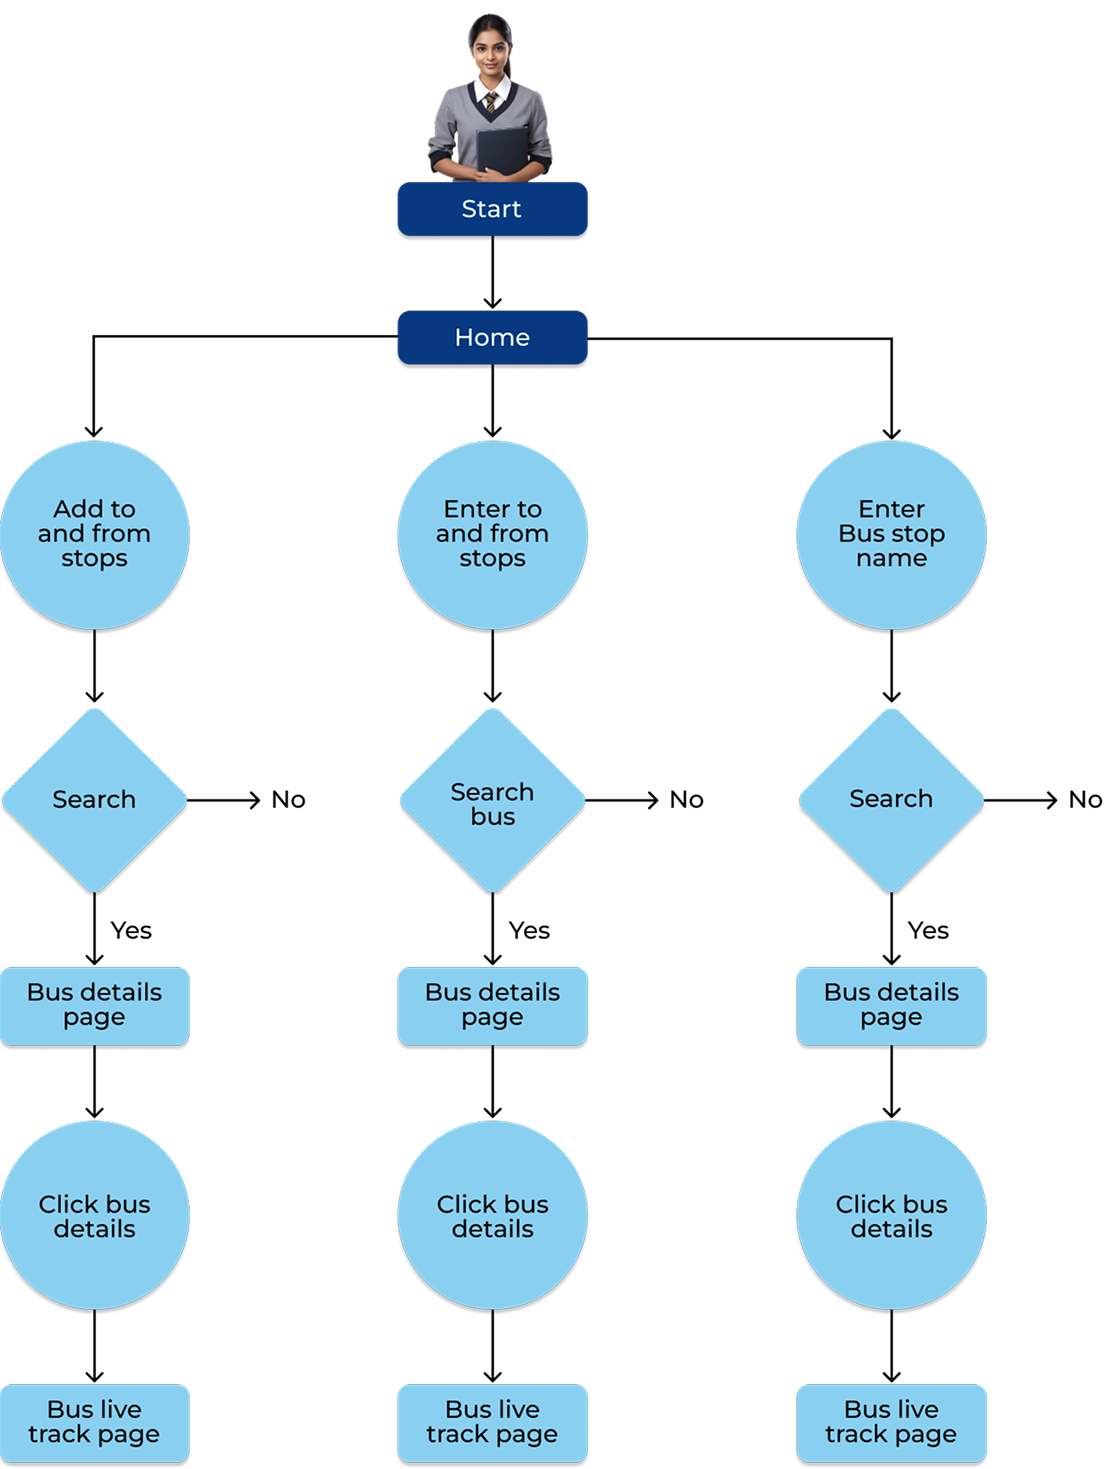
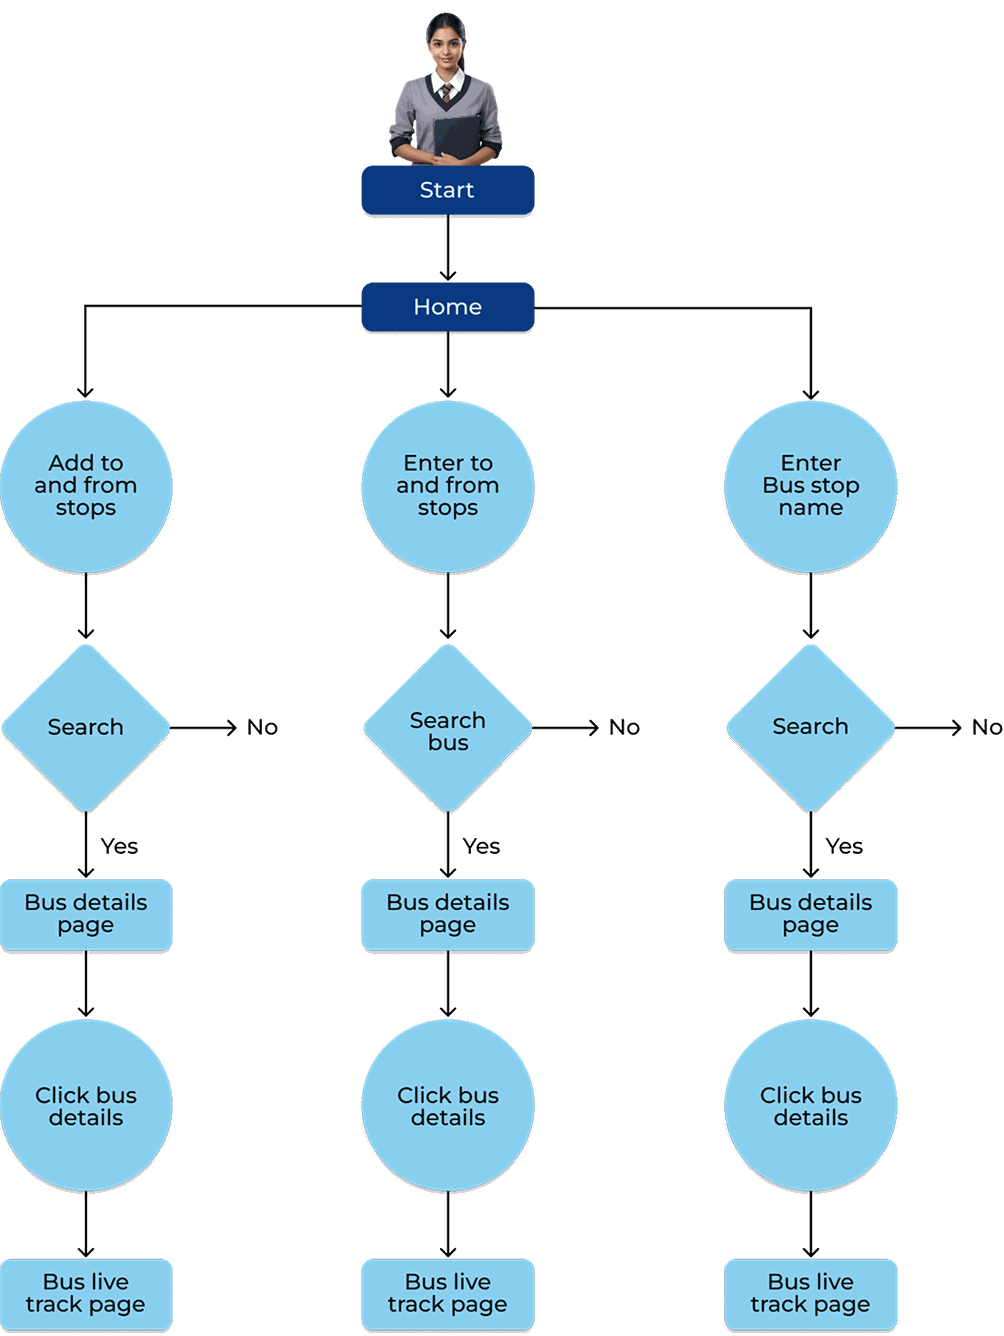
Replaced all the images with webp file to optimise the performace.

diff --git a/src/data/projects.ts b/src/data/projects.ts
@@ -196,37 +196,37 @@ export const projects: Project[] = [
           {
             src: 'ai-expense-agent/flow-upload',
             alt: 'Upload step - receipt attached, extraction in progress',
-            ratio: '786/1704',
+            ratio: '646/1400',
             caption: 'Upload',
           },
           {
             src: 'ai-expense-agent/flow-review',
             alt: 'Review step - fields marked "Suggested by AI", low-confidence fields flagged amber',
-            ratio: '786/1704',
+            ratio: '646/1400',
             caption: 'Review - confidence surfaced per field',
           },
           {
             src: 'ai-expense-agent/flow-justify',
             alt: 'Justification step - a policy violation asking for a written justification',
-            ratio: '786/1704',
+            ratio: '646/1400',
             caption: 'Justify - a violation invites an explanation',
           },
           {
             src: 'ai-expense-agent/flow-messages',
             alt: 'Messages panel grouping errors, warnings and information',
-            ratio: '786/1768',
+            ratio: '646/1453',
             caption: 'Messages - errors, warnings, information',
           },
           {
             src: 'ai-expense-agent/flow-confirm',
             alt: 'Confirm step - the completed report before submission',
-            ratio: '786/1704',
+            ratio: '646/1400',
             caption: 'Confirm',
           },
           {
             src: 'ai-expense-agent/flow-submitted',
             alt: 'Submitted confirmation screen',
-            ratio: '786/1704',
+            ratio: '646/1400',
             caption: 'Submitted',
           },
         ],
@@ -328,7 +328,7 @@ export const projects: Project[] = [
     cover: {
       src: 'meet-in-room/cover',
       alt: 'Meet-in-Room - the room booking app shown on two phones',
-      ratio: '2440/900',
+      ratio: '2168/800',
     },
     presentation: 'case-study',
     featured: true,
@@ -350,7 +350,7 @@ export const projects: Project[] = [
           {
             src: 'meet-in-room/hero',
             alt: 'Meet-in-Room booking flow shown across several phone screens',
-            ratio: '3360/1228',
+            ratio: '2784/1017',
           },
         ],
       },
@@ -439,13 +439,13 @@ export const projects: Project[] = [
           {
             src: 'meet-in-room/wireframes',
             alt: 'Paper wireframes exploring structure and flow',
-            ratio: '1624/1280',
+            ratio: '1004/791',
             caption: 'Paper wireframes - structure and flow before any styling.',
           },
           {
             src: 'meet-in-room/ia-sitemap',
             alt: 'Sitemap showing three task branches off the home page',
-            ratio: '1624/1702',
+            ratio: '1004/1052',
             caption: 'Sitemap - three task branches, nothing deeper than three levels.',
           },
         ],
@@ -468,13 +468,13 @@ export const projects: Project[] = [
           {
             src: 'meet-in-room/user-flow',
             alt: 'User flow diagram including failure paths for taken slots and login errors',
-            ratio: '3360/1994',
+            ratio: '1004/596',
             caption: 'The booking flow with its failure paths drawn in.',
           },
           {
             src: 'meet-in-room/style-guide',
             alt: 'Style guide showing the type ramp, colour palette and component library',
-            ratio: '3360/1370',
+            ratio: '1004/409',
             caption:
               'Style guide and component library - IBM Plex Sans type ramp, the five-colour palette, and the seven reusable components every screen is composed from.',
           },
@@ -511,19 +511,19 @@ export const projects: Project[] = [
           {
             src: 'meet-in-room/solution-availability',
             alt: 'Home screen showing rooms that are free right now',
-            ratio: '1056/2286',
+            ratio: '646/1398',
             caption: 'Availability first',
           },
           {
             src: 'meet-in-room/solution-request',
             alt: 'A taken slot offering a Request action',
-            ratio: '1056/2286',
+            ratio: '646/1398',
             caption: "Request, don't walk",
           },
           {
             src: 'meet-in-room/solution-inbox',
             alt: 'Attendees added, with invites routed through college email',
-            ratio: '1056/2286',
+            ratio: '646/1398',
             caption: 'Familiar inbox',
           },
         ],
@@ -576,19 +576,19 @@ export const projects: Project[] = [
           {
             src: 'meet-in-room/test-round-1',
             alt: 'Round one testing findings annotated on wireframes',
-            ratio: '1624/1078',
+            ratio: '646/429',
             caption: 'Round 1 - at wireframe stage',
           },
           {
             src: 'meet-in-room/test-round-2',
             alt: 'Round two testing findings annotated on high-fidelity screens',
-            ratio: '1624/1356',
+            ratio: '646/539',
             caption: 'Round 2 - in high fidelity',
           },
           {
             src: 'meet-in-room/ab-test',
             alt: 'A/B test comparing two booking entry treatments',
-            ratio: '1624/1356',
+            ratio: '646/539',
             caption: 'A/B test - booking entry',
           },
         ],
@@ -627,7 +627,7 @@ export const projects: Project[] = [
     cover: {
       src: 'busstop/cover',
       alt: 'BusStop - the transit app shown on two phones',
-      ratio: '7112/5334',
+      ratio: '2784/2088',
     },
     presentation: 'case-study',
     featured: false,
@@ -670,14 +670,14 @@ export const projects: Project[] = [
           {
             src: 'busstop/competitive-analysis',
             alt: 'Competitive analysis matrix comparing Bus Times, Google Maps, Moovit and Where is my Train',
-            ratio: '1806/1417',
+            ratio: '1004/788',
             caption:
               'Competitive analysis - guest account, local schedules, live tracking, alarm setter.',
           },
           {
             src: 'busstop/persona',
             alt: 'User persona for Dhakshayani C, 22, designer in Bangalore',
-            ratio: '1173/1135',
+            ratio: '1004/971',
             caption: 'Primary persona - a daily commuter, not an occasional traveller.',
           },
         ],
@@ -729,7 +729,7 @@ export const projects: Project[] = [
           {
             src: 'busstop/user-flow',
             alt: 'User flow from search through bus details to live tracking',
-            ratio: '1104/1469',
+            ratio: '1004/1336',
             caption: 'Search → bus details → live track: one component, three inputs.',
           },
         ],
@@ -773,37 +773,37 @@ export const projects: Project[] = [
           {
             src: 'busstop/screen-home',
             alt: 'Home screen with From and To inputs',
-            ratio: '786/1704',
+            ratio: '646/1400',
             caption: 'From and To only. One job per screen.',
           },
           {
             src: 'busstop/screen-find-bus',
             alt: 'Bus results list with fares and on-time status',
-            ratio: '786/1704',
+            ratio: '646/1400',
             caption: 'Results - schedules, fare, delay flags.',
           },
           {
             src: 'busstop/screen-live-track',
             alt: 'Live tracking view for route 507K',
-            ratio: '786/1704',
+            ratio: '646/1400',
             caption: 'Redesigned simpler after users stalled on this screen.',
           },
           {
             src: 'busstop/screen-alarm',
             alt: 'Stop alarm configuration screen',
-            ratio: '786/1704',
+            ratio: '646/1400',
             caption: 'Stop alarm frees riders from watching the map.',
           },
           {
             src: 'busstop/type-color',
             alt: 'Typography and colour system - Quicksand and Reem Kufi on navy',
-            ratio: '2634/2470',
+            ratio: '646/606',
             caption: 'Borrowed from the signage - Quicksand and Reem Kufi.',
           },
           {
             src: 'busstop/wireframes',
             alt: 'Eighteen wireframes laid out as a system',
-            ratio: '2978/2912',
+            ratio: '646/632',
             caption: 'Eighteen wireframes, one street plan.',
           },
         ],
@@ -864,7 +864,7 @@ export const projects: Project[] = [
     cover: {
       src: 'evergrove/cover',
       alt: 'EverGrove landing page hero',
-      ratio: '2882/2606',
+      ratio: '2784/2517',
     },
     presentation: 'gallery',
     featured: true,
@@ -889,7 +889,7 @@ export const projects: Project[] = [
             src: 'evergrove/page',
             display: 'longform',
             alt: 'Full EverGrove landing page - hero, clients, features, testimonials, pricing and footer',
-            ratio: '2882/8958',
+            ratio: '2432/7559',
             caption: 'Full page at 1440 - hero through footer.',
           },
         ],
@@ -903,7 +903,7 @@ export const projects: Project[] = [
           {
             src: 'evergrove/components',
             alt: 'Component sheet showing primary and secondary buttons and links in default, hover, active and disabled states',
-            ratio: '4012/3186',
+            ratio: '2784/2211',
             caption:
               'Primary, secondary and link treatments - default, hover, active and disabled.',
           },
@@ -931,7 +931,7 @@ export const projects: Project[] = [
     cover: {
       src: 'rate-conversion/cover',
       alt: 'Rate conversion tool landing page',
-      ratio: '3946/2960',
+      ratio: '2784/2088',
     },
     presentation: 'gallery',
     featured: false,
@@ -955,7 +955,7 @@ export const projects: Project[] = [
           {
             src: 'rate-conversion/page',
             alt: 'Rate conversion tool landing page at 1440 width',
-            ratio: '2886/2508',
+            ratio: '2784/2419',
           },
         ],
       },

diff --git a/src/data/assets.ts b/src/data/assets.ts
@@ -10,8 +10,9 @@ const files = import.meta.glob('../assets/**/*.{png,jpg,jpeg,webp,gif,svg}', {
   query: '?url',
 }) as Record<string, string>
 
-// Prefer a real bitmap export over the placeholder when both are present.
-const priority = ['.png', '.jpg', '.jpeg', '.webp', '.gif', '.svg']
+// Preference order when a key resolves to more than one file: the modern
+// format first, an SVG placeholder last.
+const priority = ['.webp', '.png', '.jpg', '.jpeg', '.gif', '.svg']
 
 const byKey = new Map<string, { url: string; rank: number }>()
 
